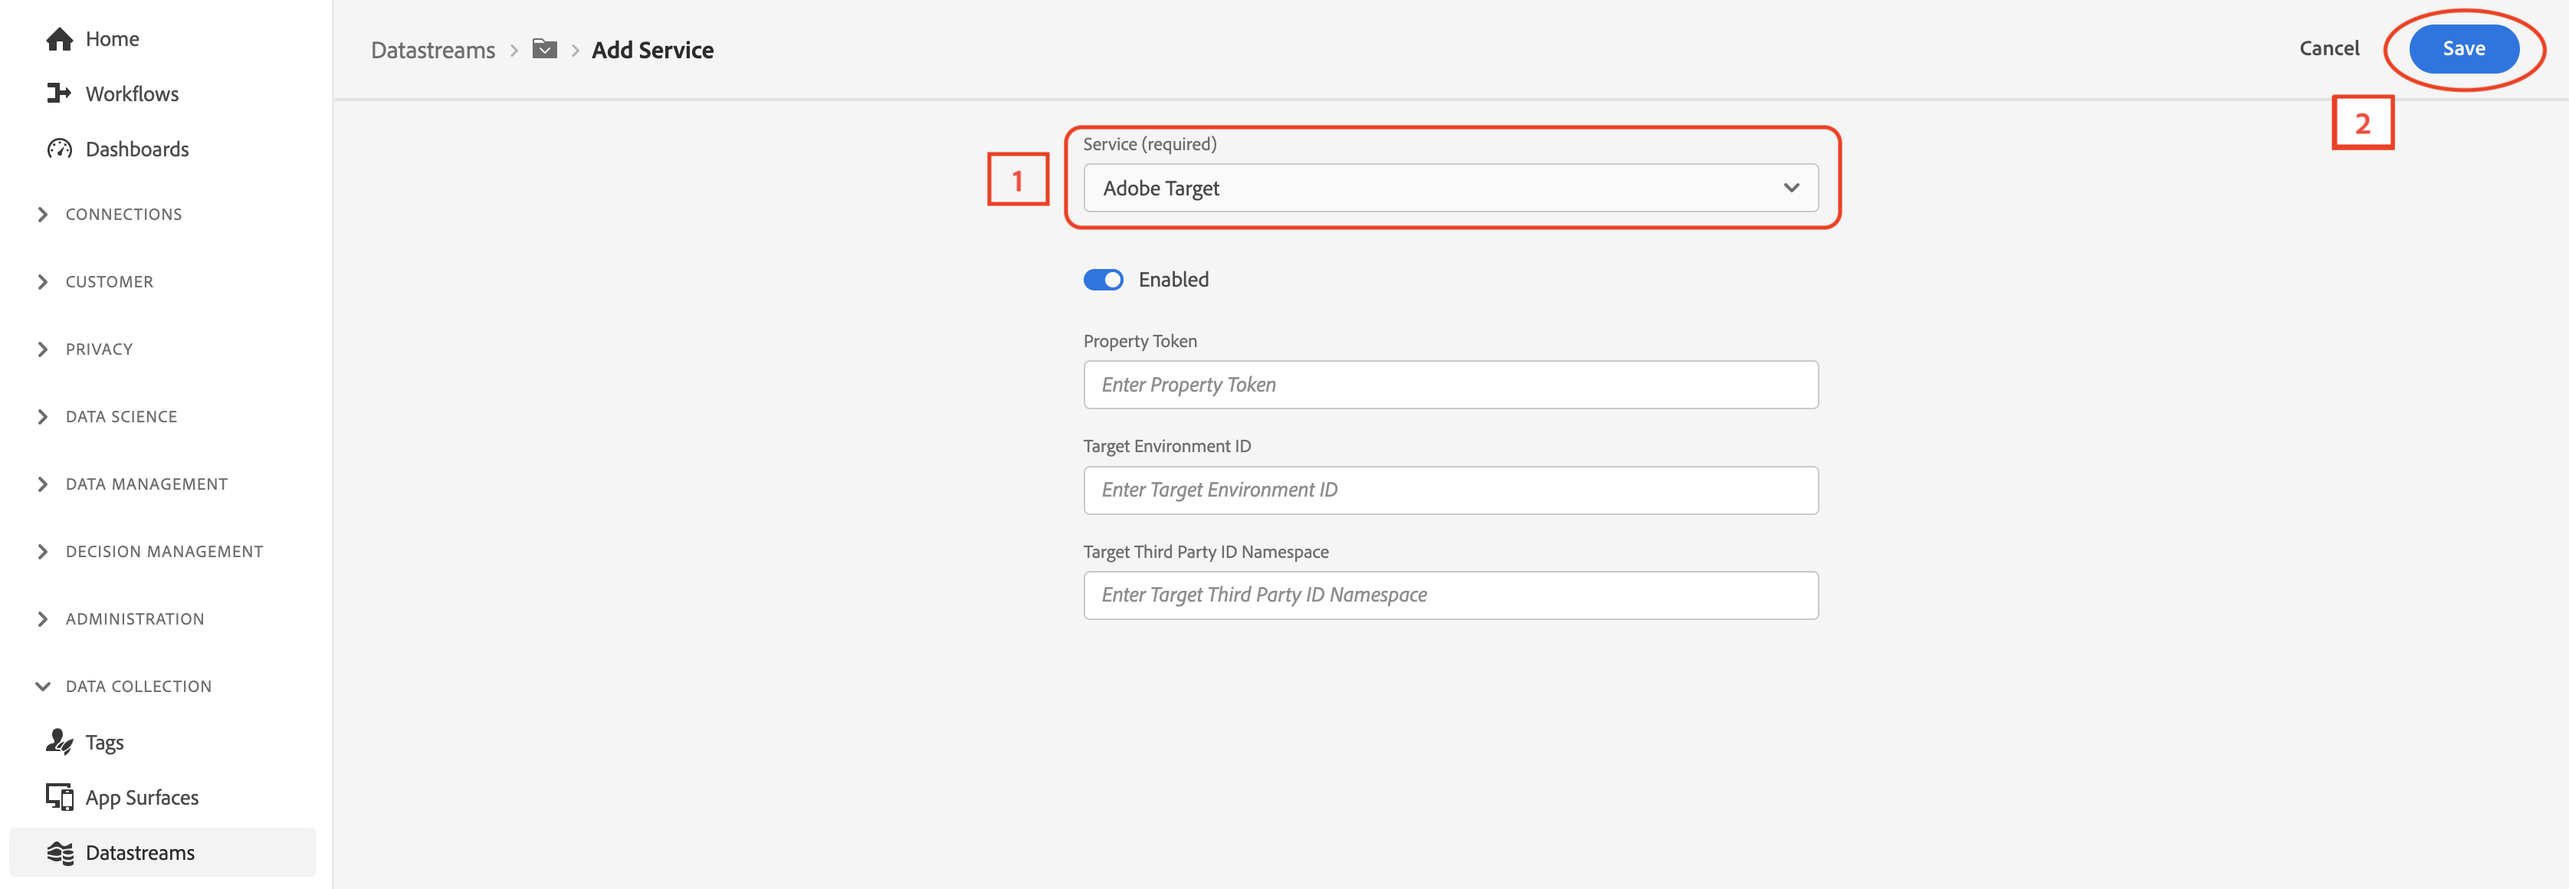
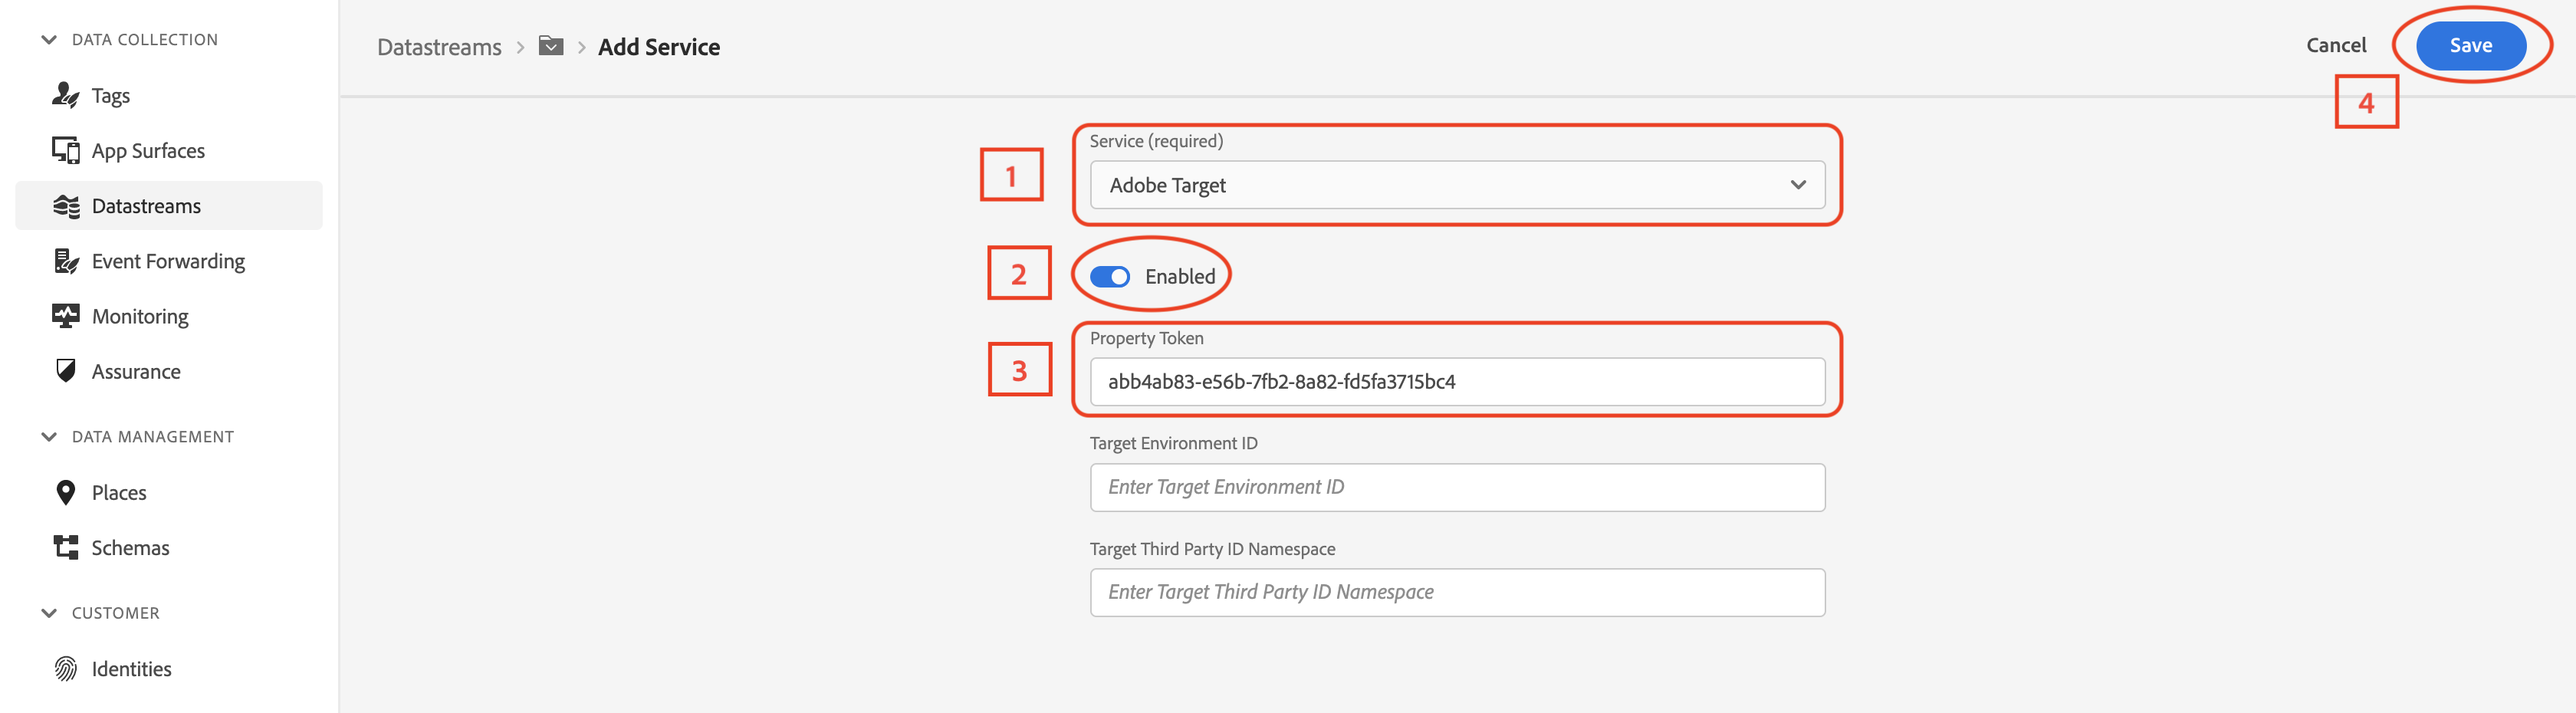
added creating datastream and some fixes

diff --git a/docs/tutorials/setup/create-datastream.md b/docs/tutorials/setup/create-datastream.md
@@ -1,35 +1,49 @@
 ### Create a Datastream
 
-<details>
-  <summary> What is a datastream? </summary><p>
-
-A datastream is a server-side configuration on Platform Edge Network that controls where data goes. Datastreams ensure that incoming data is routed to the Adobe Experience Platform application and services (like Analytics) appropriately. For more information, see the [datastreams documentation](https://experienceleague.adobe.com/docs/experience-platform/edge/datastreams/overview.html?lang=en) or this [video](https://experienceleague.adobe.com/docs/platform-learn/data-collection/edge-network/configure-datastreams.html?lang=en).
-
 In order to send data to the Edge Network, the datastream must be configured with the Event schema.
 
-</p></details>
-
-Select **Datastreams** (**1**) under **DATA COLLECTION** in the left side navigation panel . Select **New Datastream** (**2**) in the top right .
+1. Select **Datastreams** (**1**) under **DATA COLLECTION** in the left side navigation panel . Select **New Datastream** (**2**) in the top right .
 
 | ![Create new Datastream](../../assets/datastreams-main-view.png?raw=true) |
 | :---: |
 | **Create new Datastream** |
 
-Give the datastream an identifying name and description (**1**), then pick the schema created in the previous section using the dropdown menu (**2**). Then select **Save** (**3**).
+2. Give the datastream an identifying name and description (**1**), then pick the schema created in the previous section using the dropdown menu (**2**). Then select **Save** (**3**).
 
 | ![Set Datastream values](../../assets/datastreams-new-datastream.png?raw=true) |
 | :---: |
 | **Set Datastream values** |
 
-With the datastream set up, data can be directed to its destination by adding services. In this case, Adobe Target:
+### Adobe Experience Platform Datastream configuration
+
+With the datastream set up, data can be directed to its destination by adding services:
 1. Select **Add Service** (**1**)
 
 | ![Add Datastream Service](../../assets/datastreams-add-service.png?raw=true) |
 | :---: |
 | **Add Datastream Service** |
 
-2. From the **Service (required)** dropdown (**1**), select **Adobe Target**.
-3. Select **Save**.
+2. From the **Service (required)** dropdown, select **Adobe Experience Platform** (**1**) and enable it (**2**).
+3. From the `Event Dataset`dropdown, select the dataset created for this tutorial (**3**).
+4. Select **Save** (**4**).
+
+| ![Add Experience Platform to Datastream](../../assets/datastreams-add-platform.png?raw=true) |
+| :---: |
+| **Add Experience Platform to Datastream** |
+
+
+### Adobe Target Datastream configuration
+
+With the datastream set up, data can be directed to its destination by adding services:
+1. Select **Add Service** (**1**)
+
+| ![Add Datastream Service](../../assets/datastreams-add-service2.png?raw=true) |
+| :---: |
+| **Add Datastream Service** |
+
+2. From the **Service (required)** dropdown, select **Adobe Target** (**1**) and enable it (**2**).
+3. Add the `Property Token` (**3**) copied from the Target UI Administration view.
+4. Select **Save** (**4**).
 
 | ![Add Target to Datastream](../../assets/datastreams-add-target.png?raw=true) |
 | :---: |

diff --git a/docs/tutorials/setup/create-dataset.md b/docs/tutorials/setup/create-dataset.md
@@ -1,0 +1,41 @@
+# Create a Schema
+
+ A dataset is a storage and management construct for a collection of data, typically a table, that contains a schema (columns) and fields (rows). Datasets also contain metadata that describes various aspects of the data they store.
+
+1. Navigate to the Experience Platform UI by selecting the nine-dot menu in the top right (**1**), and selecting `Experience Platform` (**2**)
+
+| ![Navigating to Experience Platform](../../assets/aep-experience-platform.png?raw=true) |
+| :---: |
+| **Navigating to Experience Platform** |
+
+2. Select **Datasets** (**1**) in the left navigation window
+
+| ![Navigating to Datasets in Experience Platform](../../assets/experience-platform-datasets.png?raw=true) |
+| :---: |
+| **Navigating to Datasets in Experience Platform** |
+
+3. Select the **Create dataset** button (**1**) in the top right.
+
+| ![Creating new dataset](../../assets/experience-platform-create-dataset.png?raw=true) |
+| :---: |
+| **Creating new dataset** |
+
+4. In the dataset creation view, select `Create dataset from schema` (**1**).
+
+| ![Create dataset from schema](../../assets/experience-platform-create-from-schema.png?raw=true) |
+| :---: |
+| **Create dataset from schema** |
+
+5. Find (**1**) and select (**2**) the schema for this tutorial and click **Next** (**3**).
+
+| ![Select schema for dataset](../../assets/experience-platform-dataset-select-schema.png?raw=true) |
+| :---: |
+| **Select schema for dataset** |
+
+6. Give the new dataset a name and description (**1**) to help identify it. Select **Finish** (**2**) to create the dataset.
+
+| ![Name and description for dataset](../../assets/experience-platform-name.png?raw=true) |
+| :---: |
+| **Name and description for dataset** |
+
+

diff --git a/docs/tutorials/setup/create-schema.md b/docs/tutorials/setup/create-schema.md
@@ -1,7 +1,5 @@
 # Create a Schema
-Before any app changes, some configuration items on the Adobe Experience Platform (AEP) side need to be set up. The end goal of this section is to create a mobile property that controls the configuration settings for the various AEP extensions used in this tutorial.
-
-First, create an XDM schema (the format for data that the Edge Network uses) and configure a datastream (controls where the data will go). 
+Before any app changes, some configuration items on the Adobe Experience Platform (AEP) side need to be set up. First, create an XDM schema (the format for data that the Edge Network uses).
  
 At a high level, a schema is a definition for the structure of your data; what properties you are expecting, what format they should be in, and checks for the actual values coming in.  
 
@@ -11,13 +9,13 @@ At a high level, a schema is a definition for the structure of your data; what p
 
 | ![Navigating to Data Collection](../../assets/aep-data-collection.png?raw=true) |
 | :---: |
-| **Accessing Data Collection** |
+| **Navigating to Data Collection** |
 
-3. Select **Schemas** in the left navigation window
+3. Select **Schemas** (**1**) in the left navigation window
 
 | ![Navigating to Schemas in Data Collection](../../assets/data-collection-tags.png?raw=true) |
 | :---: |
-| **Accessing Schemas Data Collection** |
+| **Navigating to Schemas Data Collection** |
 
 4. In the schemas view, select the **+ Create schema** button (**1**) in the top right, then select `XDM ExperienceEvent` (**2**)
 

diff --git a/docs/tutorials/setup/create-tag-property.md b/docs/tutorials/setup/create-tag-property.md
@@ -6,7 +6,7 @@ Select **Tags** (**1**) under **DATA COLLECTION** in the left-side navigation pa
 
 | ![Navigating to tags](../../assets/tags-main-view.png?raw=true) |
 | :---: |
-| **Accessing Data Collection** |
+| **Navigating to tags** |
 
 Enter an identifying name for the new property in the **Name** textfield (**1**), select **Mobile** (**2**) under **Platform**, then select **Save** (**3**).
 
@@ -22,7 +22,7 @@ Find and select the mobile property for this tutorial (**2**), optionally using 
 
 Select **Extensions** (**2**) in the left-side navigation panel, under **AUTHORING**. Notice there are some extensions are that installed by default (**1**).
 
-| ![Mobile property default extensions](../../assets/mobile-property-extensions?raw=true) |
+| ![Mobile property default extensions](../../assets/mobile-property-extensions.png?raw=true) |
 | :---: |
 | **Mobile property default extensions** |
 

diff --git a/docs/tutorials/terminology.md b/docs/tutorials/terminology.md
@@ -7,3 +7,5 @@
 `Proposition`: It encapsulates the offers proposed for a given scope based on certain eligibility rules and constraints.
 
 `Offer`: An offer is a marketing message that may have rules associated with it that specify who is eligible to see the offer.
+
+`Datastream` : A datastream is a server-side configuration on Platform Edge Network that controls where data goes. Datastreams ensure that incoming data is routed to the Adobe Experience Platform application and services (like Target) appropriatel. For more information, see the [datastreams documentation](https://experienceleague.adobe.com/docs/experience-platform/edge/datastreams/overview.html?lang=en) or this [video](https://experienceleague.adobe.com/docs/platform-learn/data-collection/edge-network/configure-datastreams.html?lang=en).

diff --git a/docs/tutorials/_sidebar.md b/docs/tutorials/_sidebar.md
@@ -8,6 +8,7 @@
         - [Create a Target Activity](/tutorials/setup/create-target-activity.md)
     - Adobe Experience Platform
         - [Create a Schema](/tutorials/setup/create-schema.md)
+        - [Create a Dataset](/tutorials/setup/create-dataset.md)
     - Data Collection
         - [Create a Datastream](/tutorials/setup/create-datastream.md)
         - [Create a Tag Property](/tutorials/setup/create-tag-property.md)
